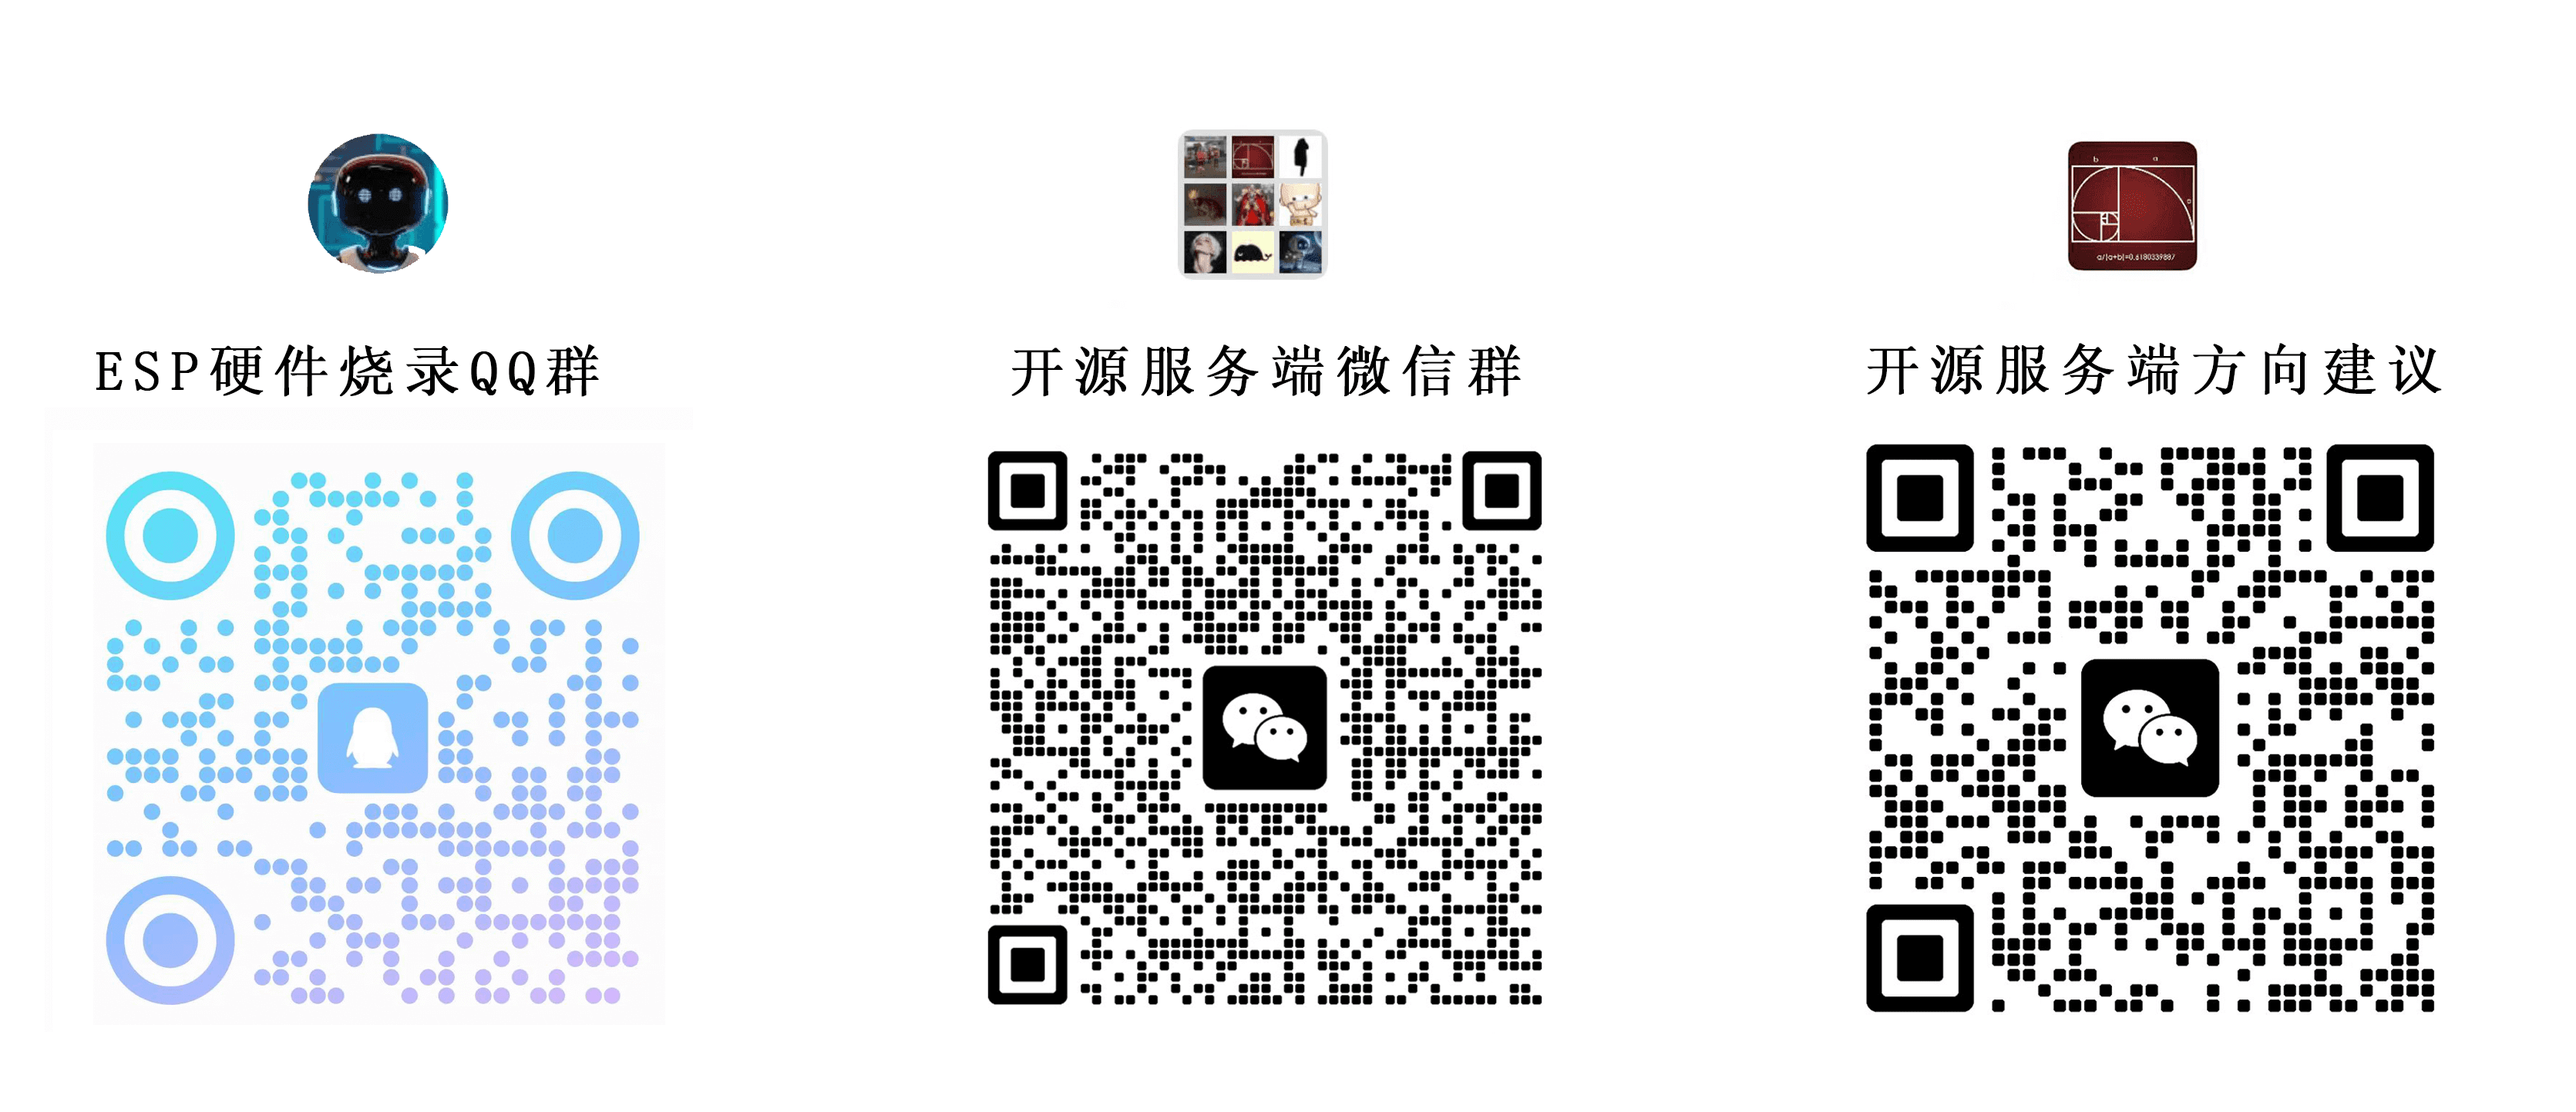
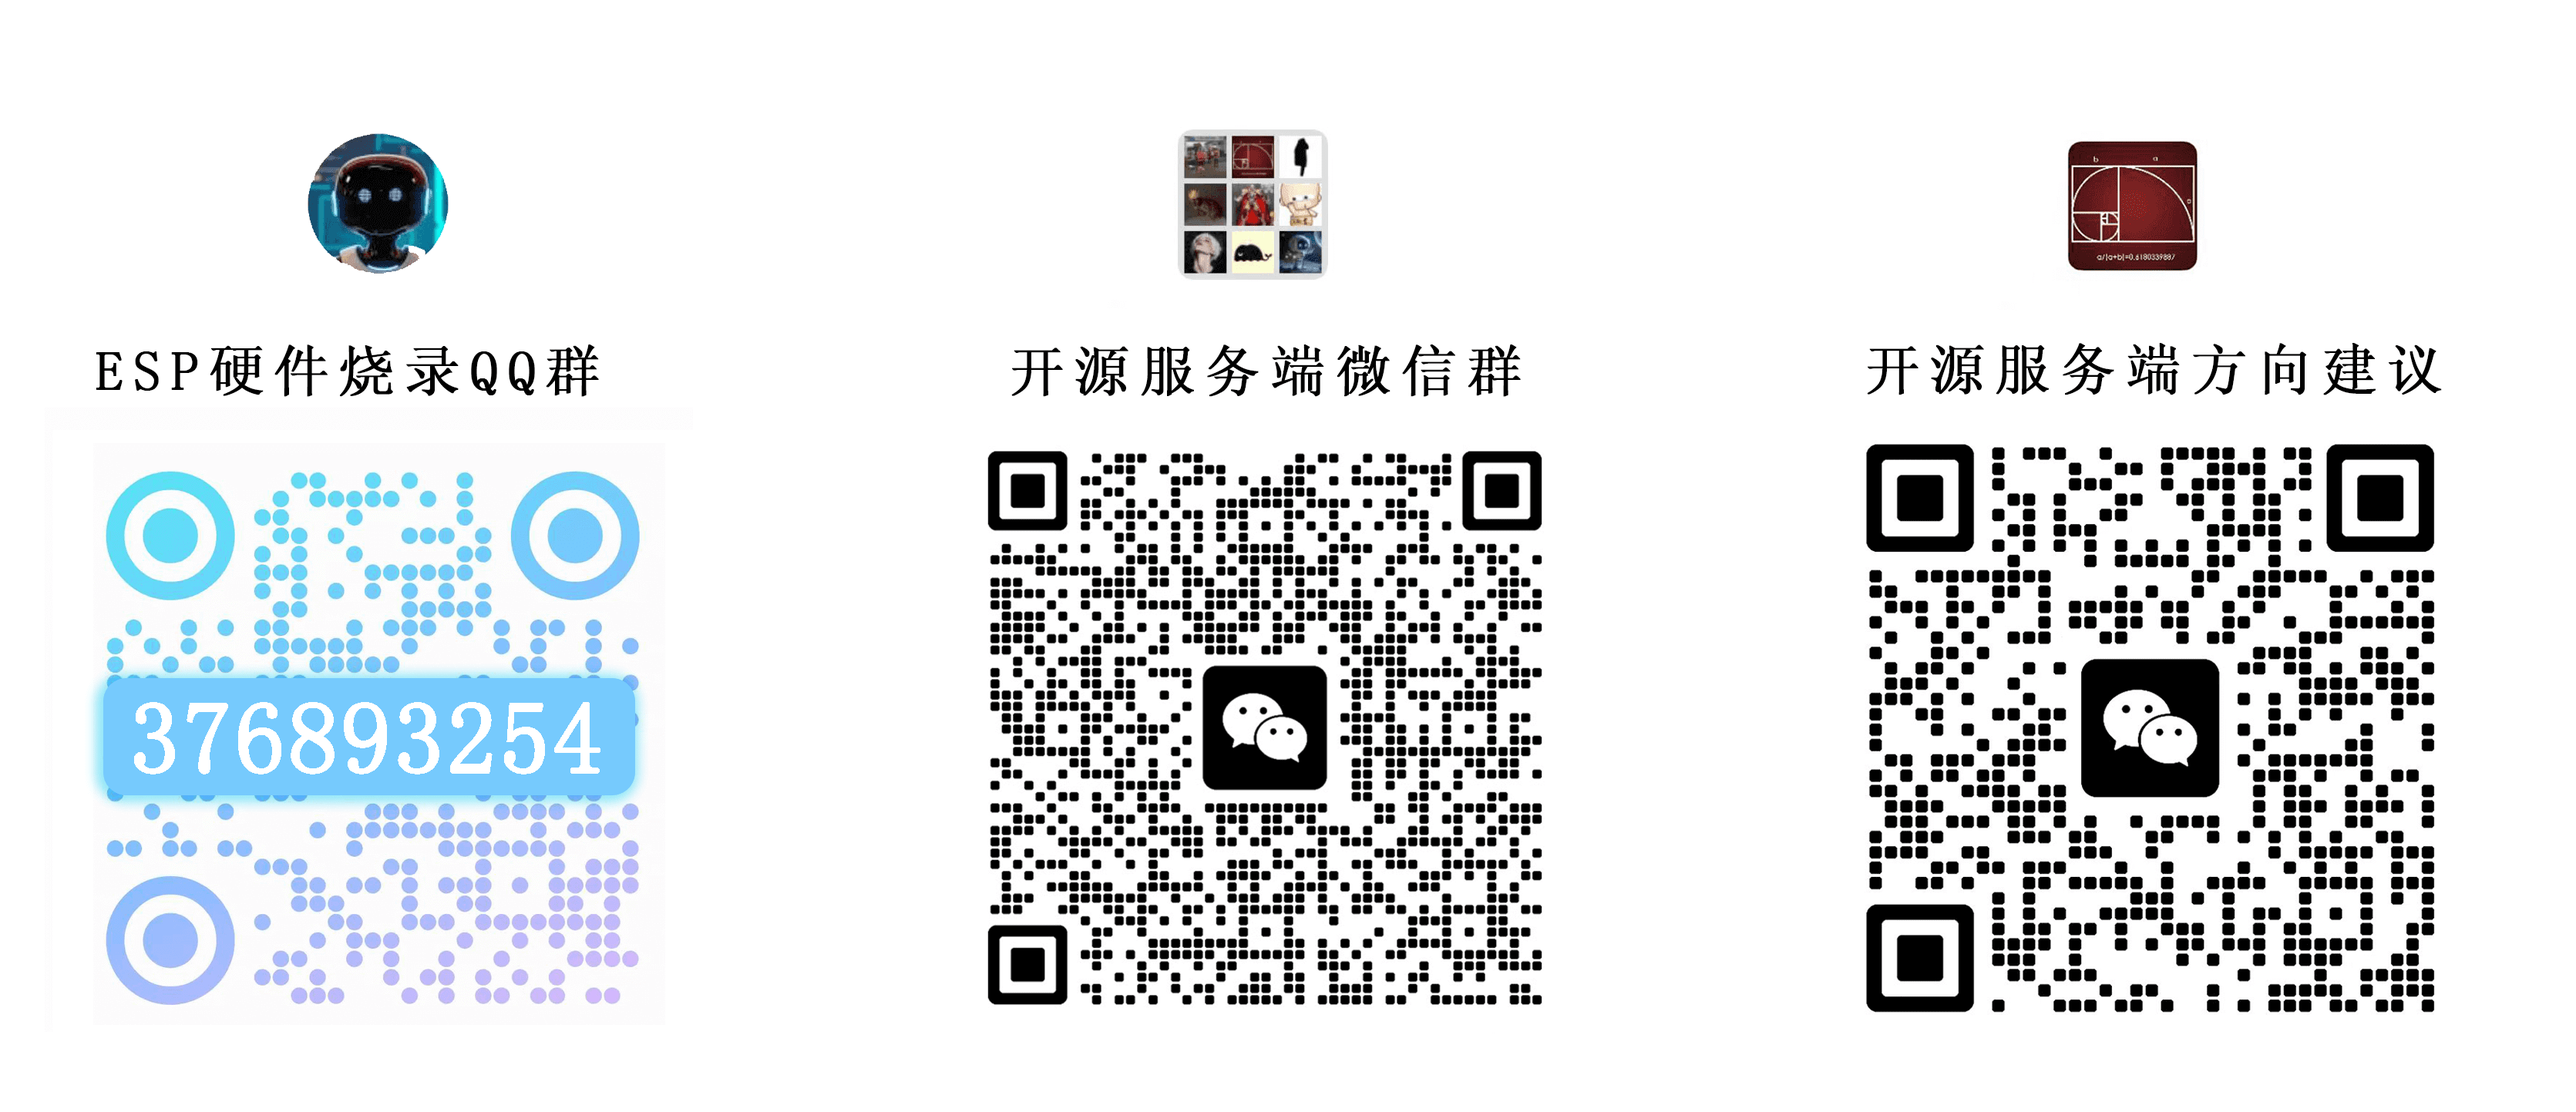
update:qq group (#145)

Changed region(s): [[0.0311, 0.5925, 0.249, 0.7484]]

diff --git a/README.md b/README.md
@@ -1,4 +1,15 @@
-![图片](docs/images/banner.png)
+[![SVG Banners](https://svg-banners.vercel.app/api?type=origin&text1=你好😃，小智📟&text2=开源小智ESP-32后端服务&width=800&height=210)](https://github.com/xinnan-tech/xiaozhi-esp32-server)
+<p align="center">
+  <a href="https://github.com/xinnan-tech/xiaozhi-esp32-server/graphs/contributors">
+    <img alt="GitHub Contributors" src="https://img.shields.io/github/contributors/xinnan-tech/xiaozhi-esp32-server" />
+  </a>
+  <a href="https://github.com/xinnan-tech/xiaozhi-esp32-server/issues">
+    <img alt="Issues" src="https://img.shields.io/github/issues/xinnan-tech/xiaozhi-esp32-server?color=0088ff" />
+  </a>
+  <a href="https://github.com/xinnan-tech/xiaozhi-esp32-server/pulls">
+    <img alt="GitHub pull requests" src="https://img.shields.io/github/issues-pr/xinnan-tech/xiaozhi-esp32-server?color=0088ff" />
+  </a>
+</p>
 
 # 小智 ESP-32 后端服务(xiaozhi-esp32-server)
 
@@ -165,7 +176,8 @@ server:
 
 本项目支持以下三种部署方式，您可根据实际需求选择。
 
-本项目的文档主要是`文字版本`的教程，如果你想要`视频版本`的教程，您可以学习一下[这个大佬的手把手教程](https://www.bilibili.com/video/BV1gePuejEvT)。
+本项目的文档主要是`文字版本`的教程，如果你想要`视频版本`
+的教程，您可以学习一下[这个大佬的手把手教程](https://www.bilibili.com/video/BV1gePuejEvT)。
 
 如果你能把`文字版本的教程`和`视频版本的教程`结合起来一起看，可以让你更快上手。
 
